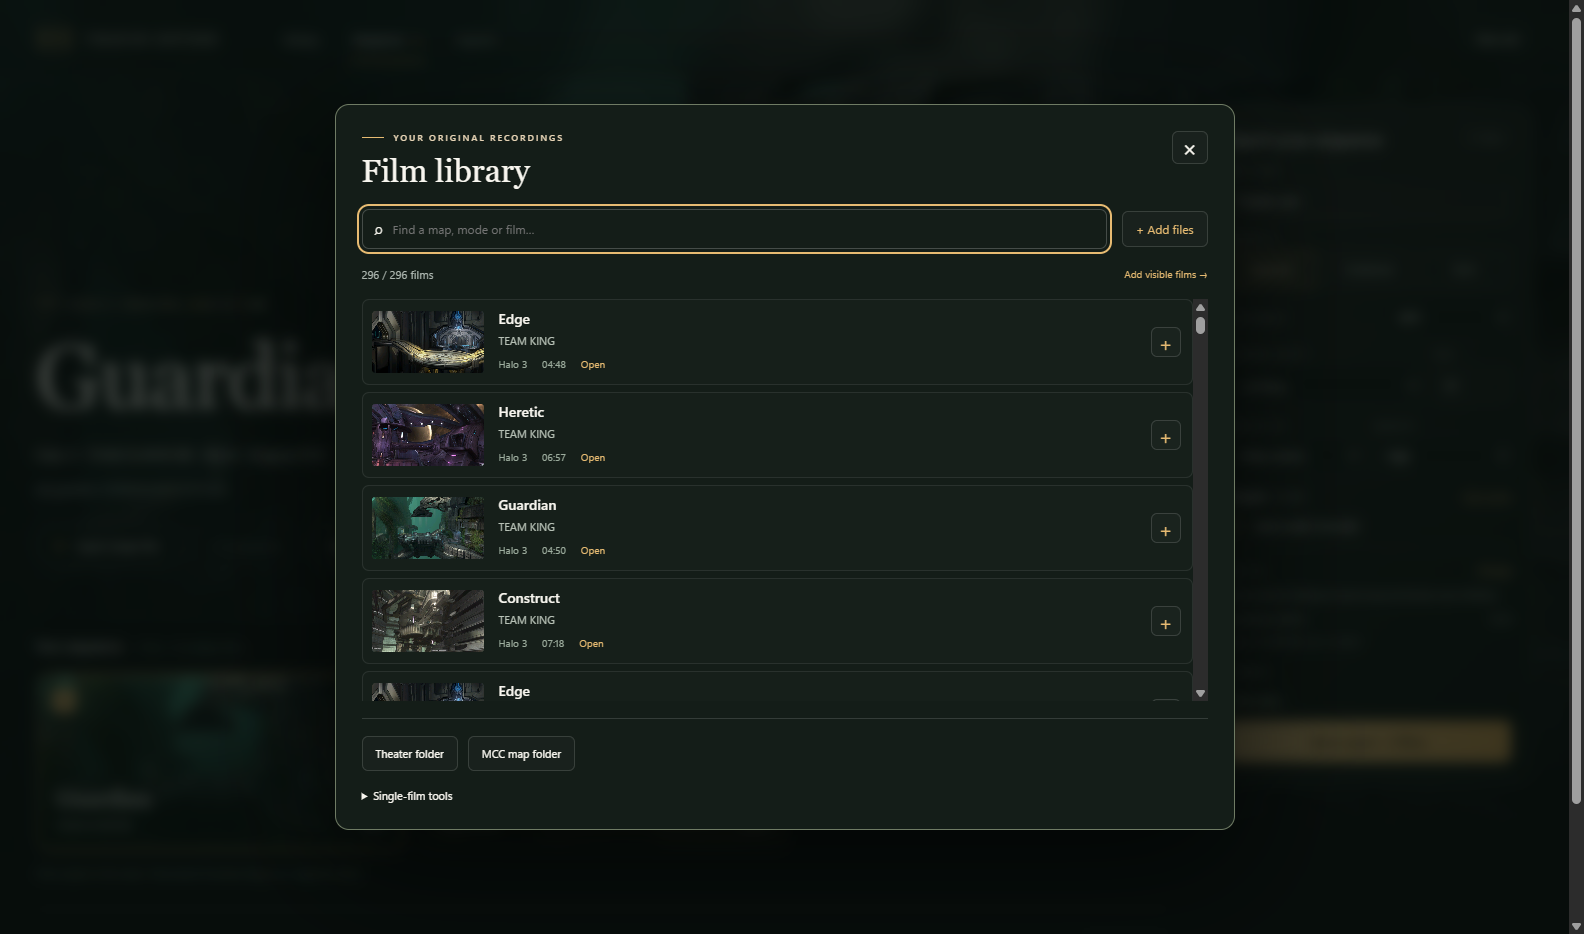
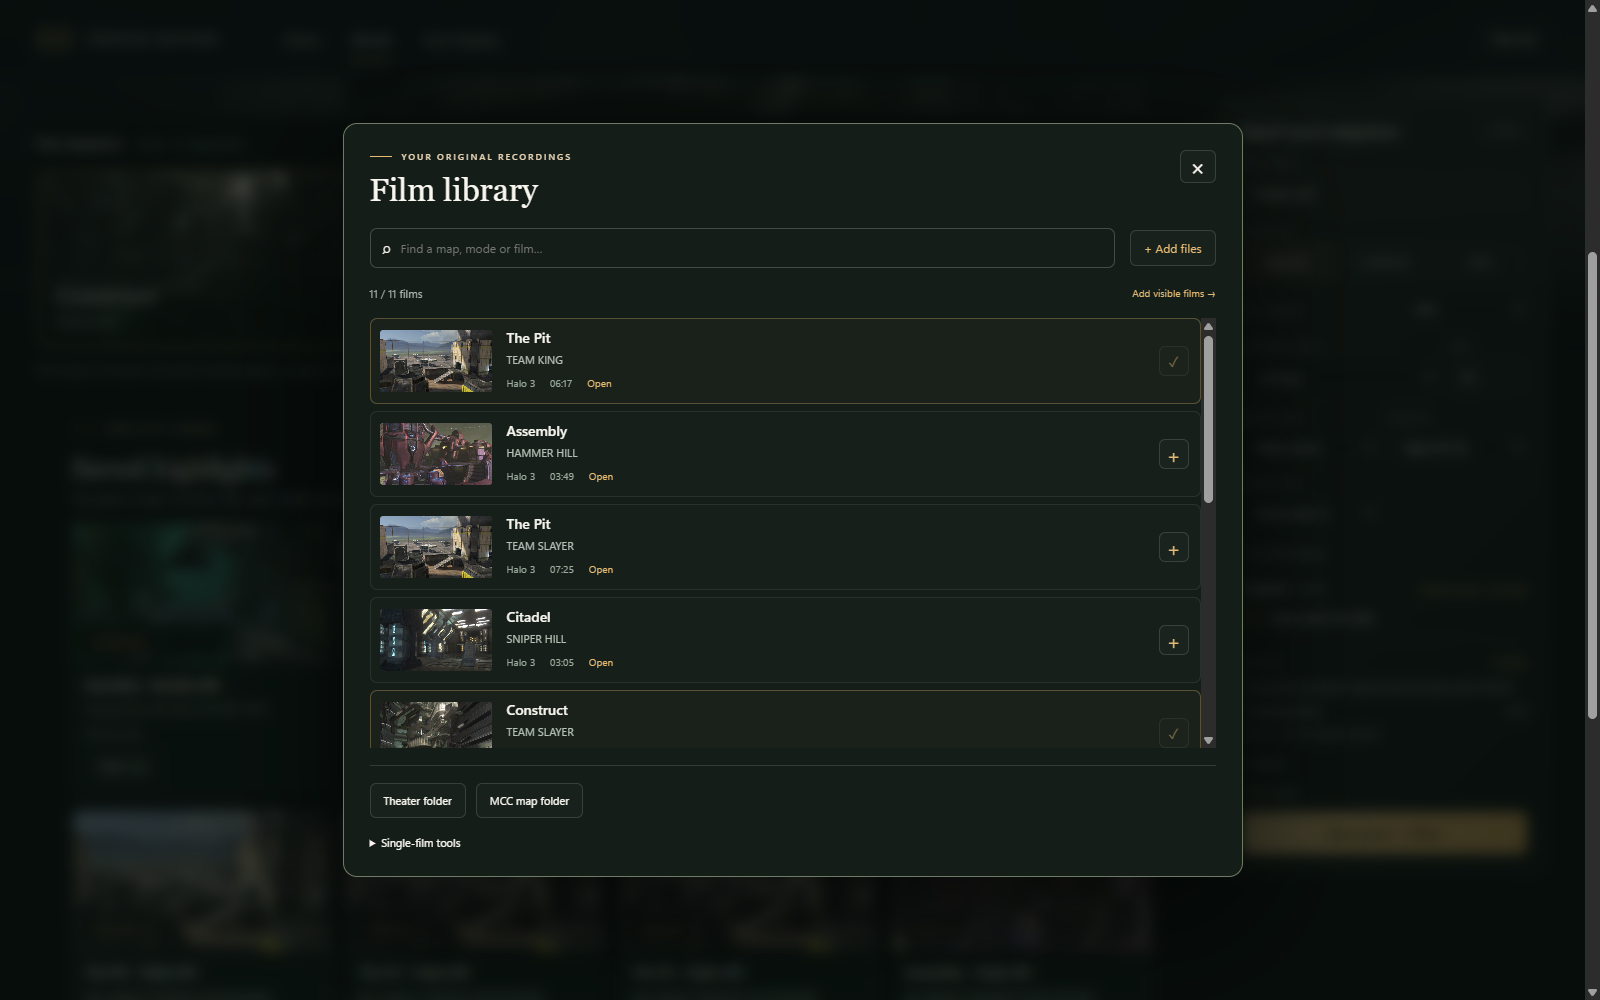
Update README screenshots for Record, Library and Auto Clipping

diff --git a/README.md b/README.md
@@ -4,21 +4,23 @@ Play and export MCC Theater films from Halo 3, Halo: Reach, Halo 4, and Halo 2 A
 
 Halo 3 full-match and sample exports support 60 or 120 fps. Other games and multikill highlights export at 60 fps.
 
-![Sequence and export settings in MCC Theater Capture](docs/screenshots/export.jpg)
+![Record tab with sequence and export settings in MCC Theater Capture](docs/screenshots/record.jpg)
 
 Requires Windows x64, an installed copy of MCC with the matching game content, and original Theater films. Only supported MCC engine builds work; game files are not included.
 
-Extract the complete release ZIP and open `MCCTheaterCapture.exe`. Add films to **Library**, arrange the sequence, choose export settings, and click **Start export**. Keep the app open until the export finishes.
+Extract the complete release ZIP and open `MCCTheaterCapture.exe`. Add films from **Library**, arrange the sequence on **Record**, choose export settings, and click **Start export**. Keep the app open until the export finishes.
 
 Browse your Theater films and add them to the sequence from the library.
 
-Turn on **Monitor MCC films** on the **Auto clipping** tab to preserve completed Halo 3, Reach, Halo 4 and Halo 2 Anniversary autosaves and find Double Kills or better without opening Theater. Check **Automatically export clips** to make 1080p/60 fps MP4 clips with game audio in the background as soon as each film is scanned, even while MCC is still open. Keep the app open; monitoring and unfinished exports resume when you reopen it. Use **Activity & settings** to review results, export individual matches, change the minimum multikill or open saved films. The minimum applies to newly discovered films; exports include three seconds before and after each multikill.
+![Film library in MCC Theater Capture](docs/screenshots/library.png)
+
+Turn on **Monitor MCC films** on the **Auto Clipping** tab to preserve completed Halo 3, Reach, Halo 4 and Halo 2 Anniversary autosaves and find Double Kills or better without opening Theater. Check **Automatically export clips** to make MP4 clips at your chosen resolution and quality with game audio in the background as soon as each film is scanned, even while MCC is still open. Keep the app open; monitoring and unfinished exports resume when you reopen it. Use **Activity & settings** to review results, export individual matches, change the minimum multikill or open saved films. The minimum applies to newly discovered films; exports include three seconds before and after each multikill.
+
+![Auto Clipping tab with monitoring settings and clip files in MCC Theater Capture](docs/screenshots/auto-clipping.png)
 
 Monitoring includes current autosaves for every supported title and Movie files written since it was first enabled. It preserves original bytes in `UserData/Monitoring`, deduplicates identical copies, and keeps its queue separate from your manual sequence. It stops ingesting at 20 GB of archived films or when less than 1 GB would remain free; use **Saved films** to free space. Keep source films for pending exports. Reach, Halo 4 and H2A scans need the MCC map folder to be set. Use **Clip files** to play, rename or delete exported clips.
 
 Monitoring regression checks: `dotnet run --project tests/Monitoring/MonitoringTests.csproj -c Release`.
-
-![Film library in MCC Theater Capture](docs/screenshots/library.png)
 
 Standalone packages include .NET, WebView2, FFmpeg, and FFprobe. Keep the extracted folder together. Recordings, settings, and caches created under `UserData` are personal and should not be shared with the app.
 
